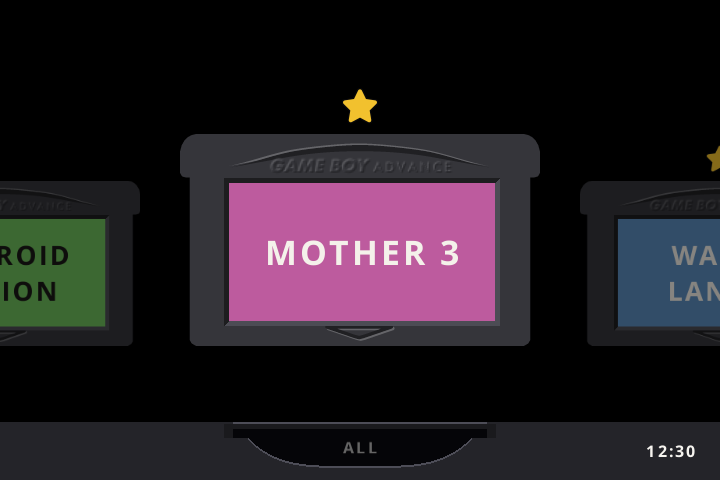
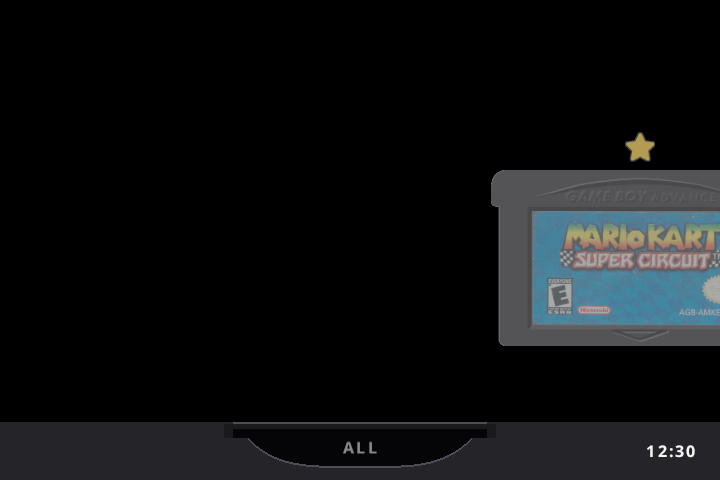
Render README shelf screenshots with original cartridge artwork

diff --git a/crates/slot/examples/readme_screenshots.rs b/crates/slot/examples/readme_screenshots.rs
@@ -1,0 +1,124 @@
+//! Regenerate the README shelf screenshots from the real frontend and label pack.
+//! Run with: cargo run -p slot --no-default-features --example readme_screenshots
+use slot::app::{App, STAR_PX};
+use slot_gfx::{Compositor, HeadlessSurface, OUT_H, OUT_W};
+use slot_input::{Action, Btn};
+use slot_store::{write_slot_state, SlotState};
+use slot_ui::{cart_face, cart_shadow, star_face, word_face};
+use std::{fs, path::PathBuf};
+
+fn load_faces(app: &mut App, c: &mut Compositor) {
+    let row = app
+        .carts()
+        .map(|cart| {
+            let f = cart_face(cart);
+            c.create_texture(f.w, f.h, &f.rgba)
+        })
+        .collect();
+    app.set_faces(row);
+    for want in app.face_wants() {
+        let cart = app.face_cart(want.shelf, want.index).unwrap().clone();
+        let f = cart_face(&cart);
+        let tex = c.create_texture(f.w, f.h, &f.rgba);
+        app.set_cart_face(want.shelf, want.index, tex);
+    }
+}
+fn settle(app: &mut App) {
+    for _ in 0..14 {
+        app.update(0.05);
+    }
+}
+fn shot(app: &mut App, c: &mut Compositor, path: PathBuf) {
+    load_faces(app, c);
+    let text = app.slot_text().unwrap();
+    let face = word_face(&text);
+    let tex = c.create_texture(face.w, face.h, &face.rgba);
+    app.set_shelf_platform_face(tex, face.w);
+    app.update(0.05);
+    app.update(0.25);
+    let mut draw = Vec::new();
+    app.draw(&mut draw);
+    c.begin_frame();
+    c.draw_list(&draw);
+    let pixels = c.read_frame();
+    let mut encoder = png::Encoder::new(fs::File::create(&path).unwrap(), OUT_W, OUT_H);
+    encoder.set_color(png::ColorType::Rgba);
+    encoder.set_depth(png::BitDepth::Eight);
+    encoder
+        .write_header()
+        .unwrap()
+        .write_image_data(&pixels)
+        .unwrap();
+    println!("Wrote {}", path.display());
+}
+fn main() {
+    let repo = PathBuf::from(env!("CARGO_MANIFEST_DIR")).join("../..");
+    let pack = repo.join("artwork/gba-originals");
+    let out = repo.join(".github/resources/screenshots/advance");
+    let root = tempfile::tempdir().unwrap();
+    for dir in ["Games/GBA", "Labels/GBA", "Config"] {
+        fs::create_dir_all(root.path().join(dir)).unwrap();
+    }
+    let names = [
+        "Kirby - Nightmare in Dream Land",
+        "Mario Kart - Super Circuit (USA)",
+        "Pokemon - Emerald Version (USA, Europe)",
+    ];
+    for name in names {
+        let mut rom = vec![0u8; 256];
+        rom[0xa0..0xa4].copy_from_slice(b"DEMO");
+        fs::write(root.path().join(format!("Games/GBA/{name}.gba")), rom).unwrap();
+        fs::copy(
+            pack.join(format!("{name}.png")),
+            root.path().join(format!("Labels/GBA/{name}.png")),
+        )
+        .unwrap();
+    }
+    fs::write(
+        root.path().join("Config/favourites.txt"),
+        format!("GBA/{}\nGBA/{}\n", names[1], names[2]),
+    )
+    .unwrap();
+    fs::write(
+        root.path().join("Config/recents.txt"),
+        format!("GBA/{}\nGBA/{}\nGBA/{}\n", names[1], names[0], names[2]),
+    )
+    .unwrap();
+    write_slot_state(
+        root.path(),
+        &SlotState {
+            clock_set: true,
+            ..Default::default()
+        },
+    )
+    .unwrap();
+    let surface =
+        HeadlessSurface::new().expect("Headless rendering is required for screenshot export");
+    let mut c = Compositor::new(&surface).unwrap();
+    let mut app = App::boot(root.path());
+    load_faces(&mut app, &mut c);
+    let shadow = cart_shadow();
+    let tex = c.create_texture(shadow.w, shadow.h, &shadow.rgba);
+    app.set_cart_shadow(tex);
+    let star = star_face(STAR_PX);
+    let tex = c.create_texture(star.w, star.h, &star.rgba);
+    app.set_star_face(tex, star.w, star.h);
+    let clock = word_face("12:30");
+    let tex = c.create_texture(clock.w, clock.h, &clock.rgba);
+    app.set_shelf_clock_face(tex, clock.w);
+    settle(&mut app);
+    app.apply(Action::GbaDown(Btn::Right));
+    app.apply(Action::GbaUp(Btn::Right));
+    settle(&mut app);
+    shot(&mut app, &mut c, out.join("all-with-favourites.png"));
+    app.apply(Action::FfStart);
+    app.apply(Action::FfStop);
+    settle(&mut app);
+    assert!(app.on_recents());
+    shot(&mut app, &mut c, out.join("recents.png"));
+    app.apply(Action::FfStart);
+    app.apply(Action::FfStop);
+    settle(&mut app);
+    assert!(app.on_favourites());
+    shot(&mut app, &mut c, out.join("favourites.png"));
+}

diff --git a/README.md b/README.md
@@ -41,7 +41,7 @@ Everything else works the way slot does, including the automatic suspend state w
 ### All, with favourites starred
 
 <p align="center">
-<img src=".github/resources/screenshots/advance/all-with-favourites.png" width="70%" alt="The All shelf with Mother 3 in the slot and a gold star above it">
+<img src=".github/resources/screenshots/advance/all-with-favourites.png" width="70%" alt="The All shelf with original Mario Kart cartridge-label artwork and a gold favourite star">
 </p>
 
 ### Recents and Favourites
@@ -58,15 +58,11 @@ Everything else works the way slot does, including the automatic suspend state w
 <img src=".github/resources/screenshots/advance/switcher-delete.png" width="48%" alt="The switcher asking Delete this state?">
 </p>
 
-<sub>Screenshots are rendered from slot advance's own drawing code at the RG SP's 720 x 480. These interface screenshots use plain text cart labels; the original-label artwork pack is shown below. The switcher shows a stand-in scene instead of a game.</sub>
+<sub>Screenshots are rendered from slot advance's own drawing code at the RG SP's 720 x 480. The All, Recents and Favourites shelves use original cartridge-label artwork from the included starter pack. The switcher shows a stand-in scene instead of a game.</sub>
 
 ---
 
 # Game-label artwork
-
-<p align="center">
-<img src="artwork/gba-originals/preview.png" width="100%" alt="Twelve original GBA cartridge labels: Pokémon Emerald and FireRed, Drill Dozer, Final Fantasy VI Advance, Kirby Nightmare in Dream Land, Mario Kart Super Circuit, Pokémon Mystery Dungeon, Metroid Zero Mission, Advance Wars, Zelda The Minish Cap, Kirby and the Amazing Mirror, and Final Fantasy Tactics Advance">
-</p>
 
 A [12-game original cartridge-label starter pack](artwork/gba-originals/README.md) is included, with Pokémon Emerald and FireRed, Mario Kart, Kirby, Zelda and more. Copy the game PNGs into `Labels/GBA/`, matching each ROM filename, or use the optional installer described in the pack. Existing artwork is preserved. Source credits and artwork regions are documented with the pack.
 
